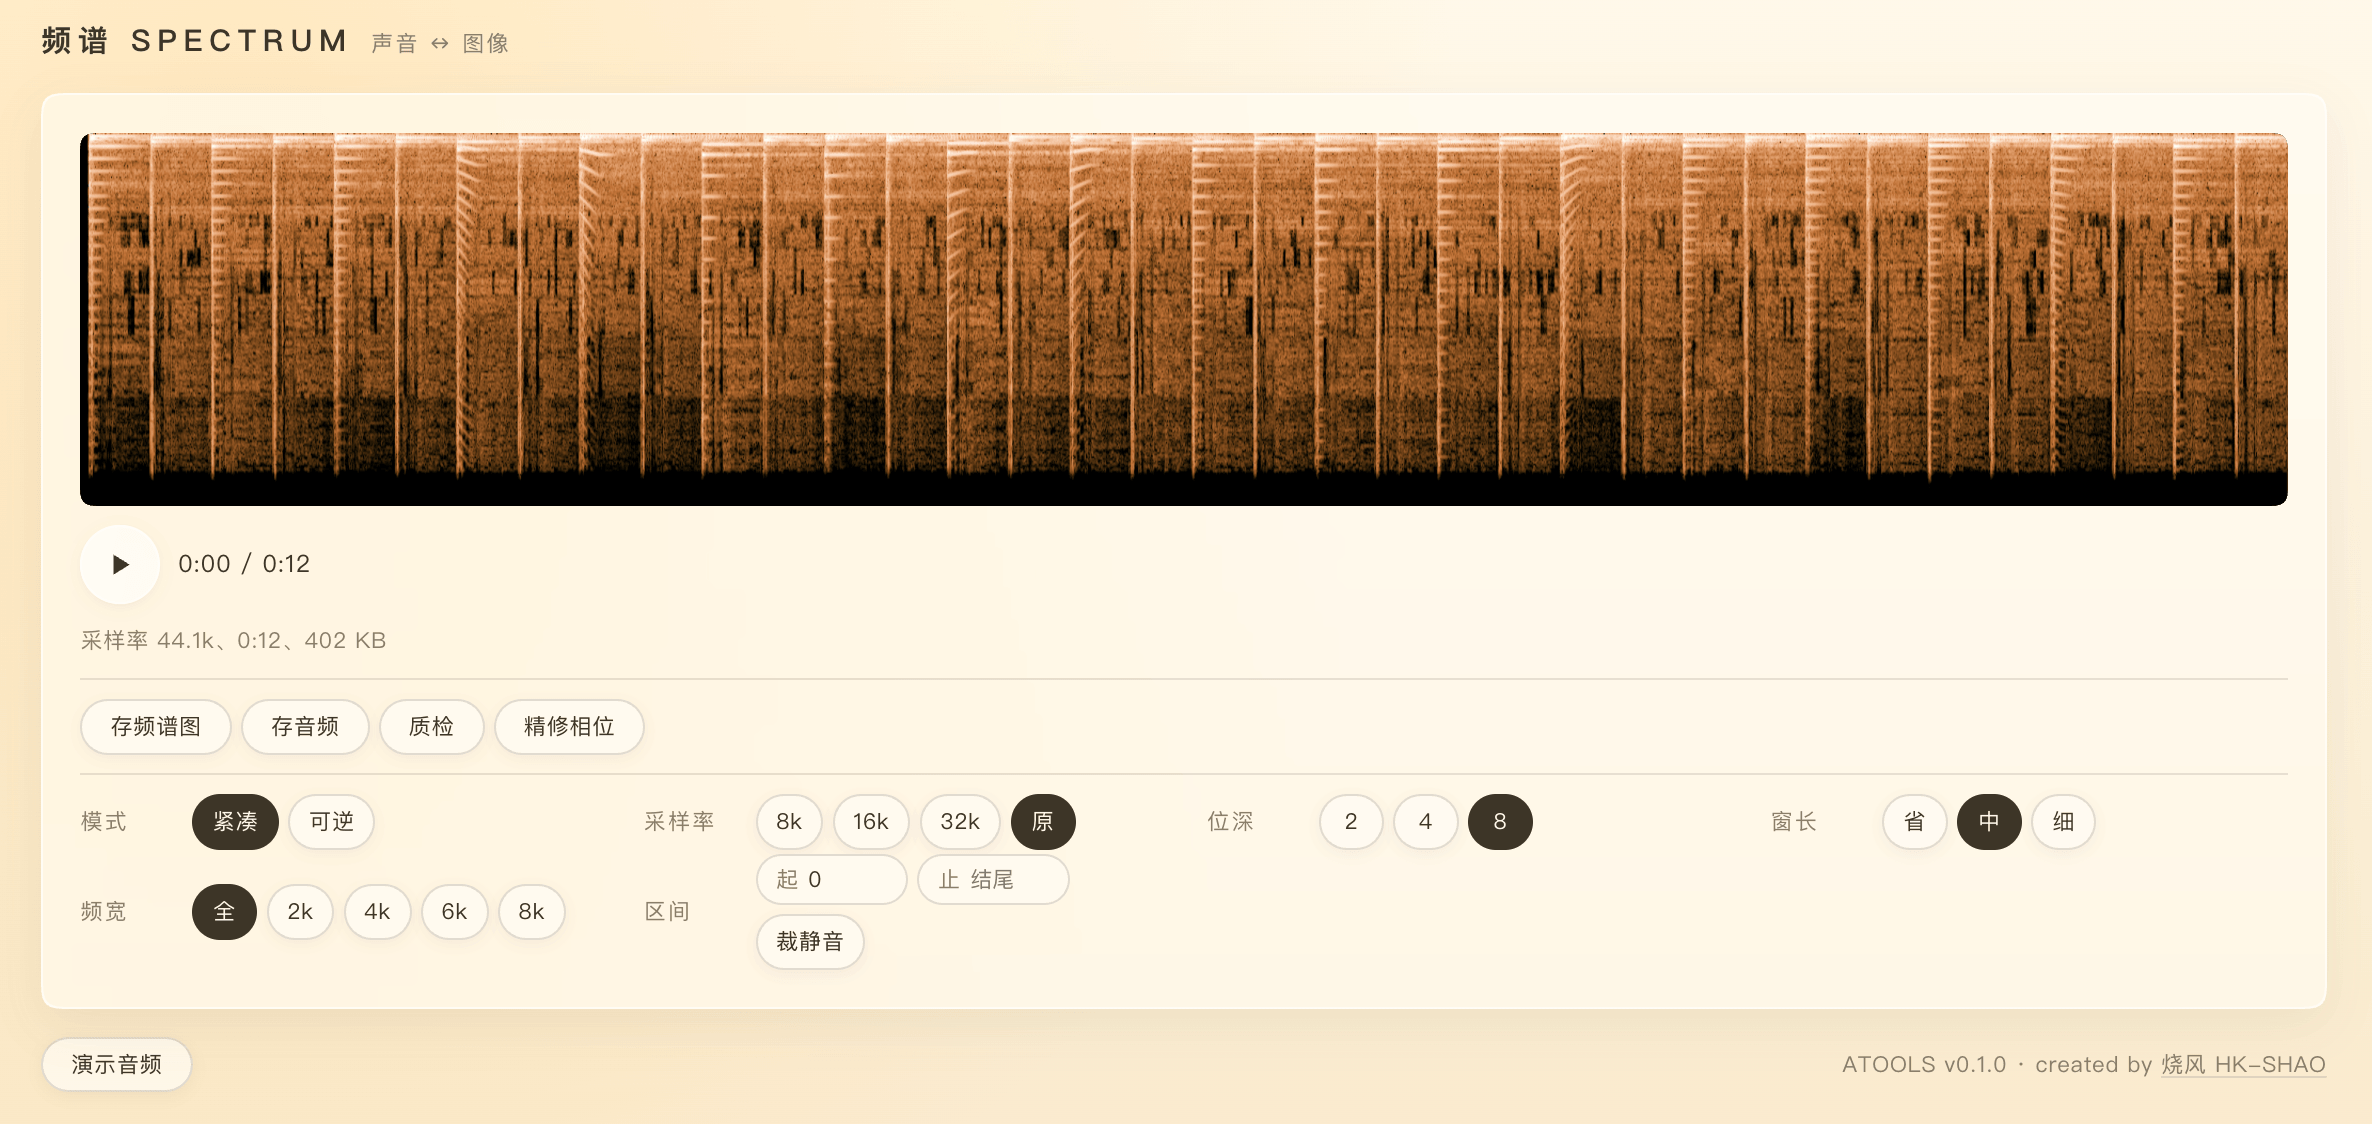
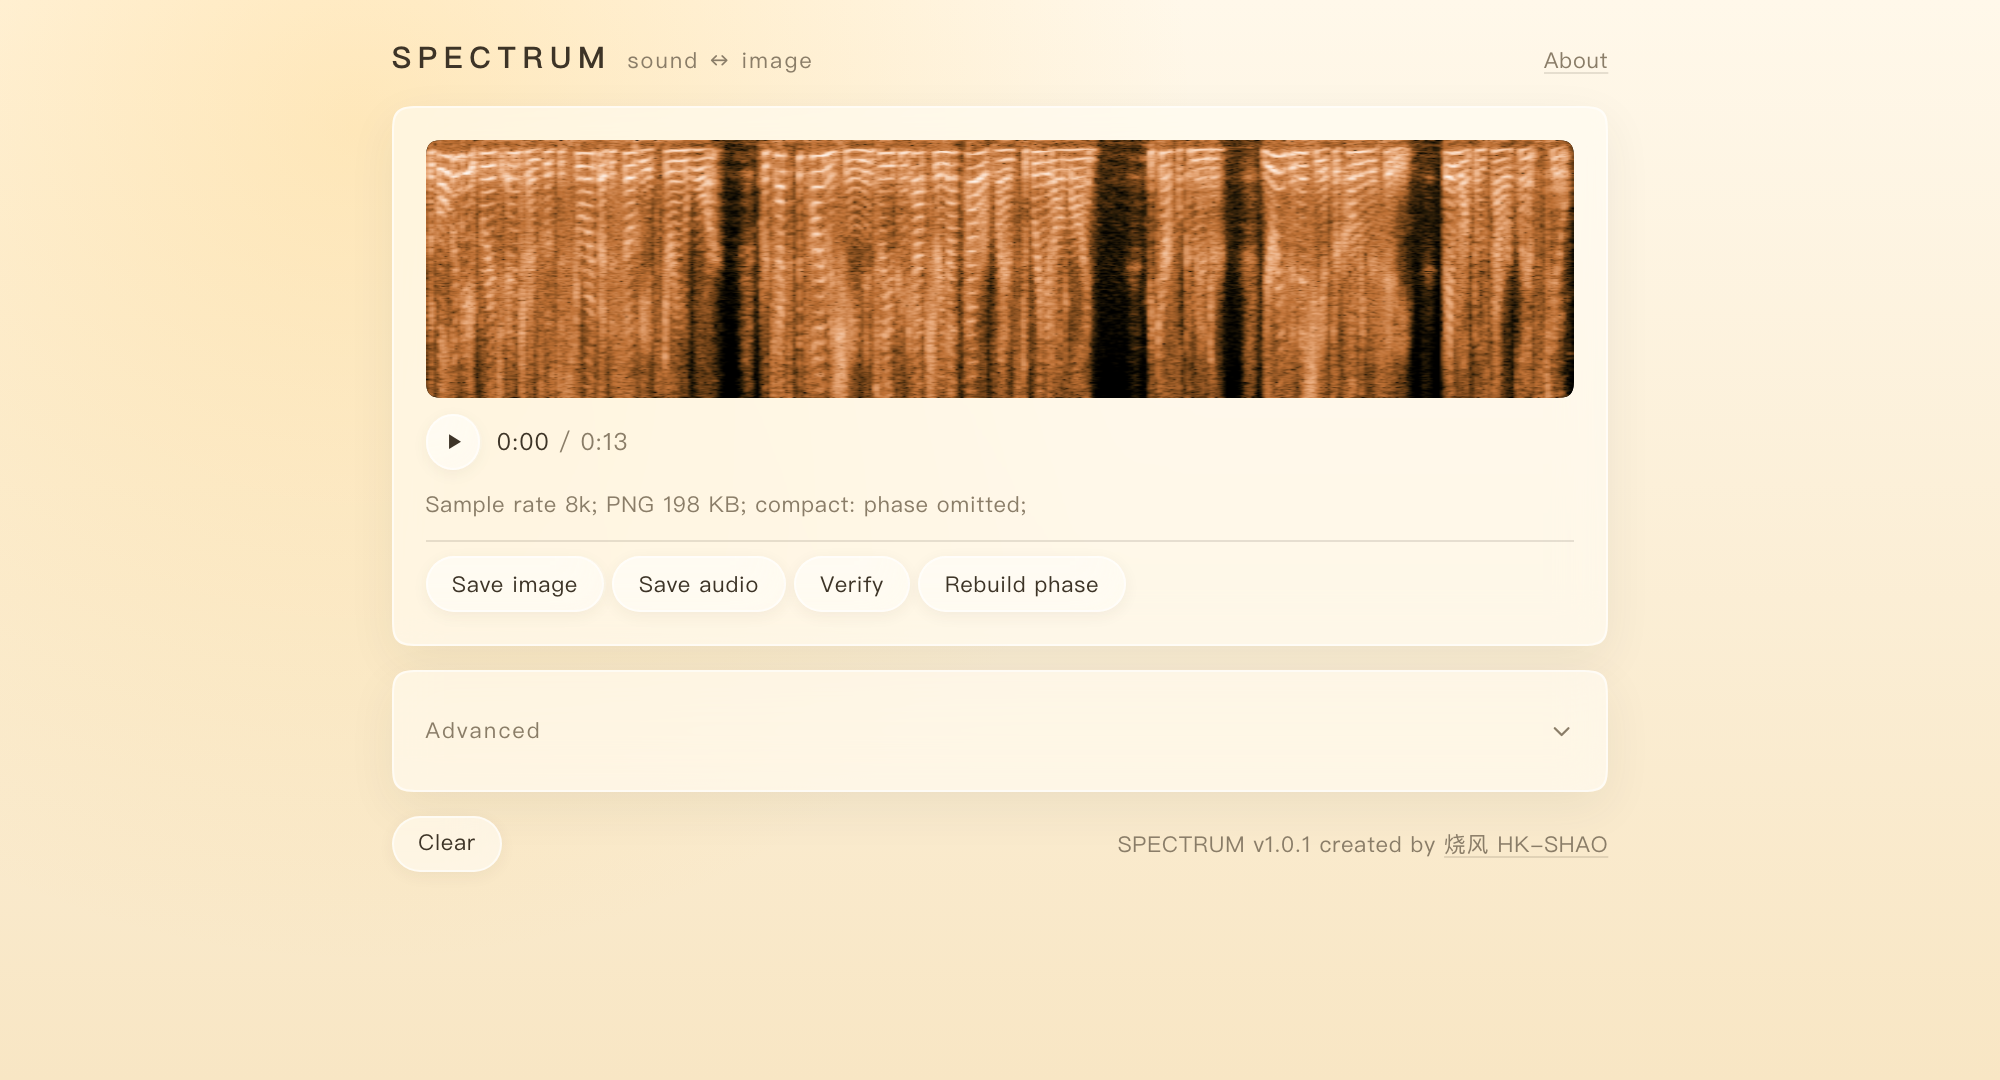
Metadata a public repository needs, and a page for readers without JavaScript
package.json declared no license, description, homepage, or repository while LICENSE sat at the root unmentioned. README now names the license.

With scripting off the page was blank: #root fills the viewport and carries nothing. A noscript line inside #root, centred by one rule, now says what the app needs. React clears the container on mount, so it costs nothing when scripting runs.

The README screenshot still showed the Chinese UI, version 0.1.0, and the old ATOOLS credit. It is a fresh capture of the default state at 2000x1080.

diff --git a/app/index.html b/app/index.html
@@ -22,7 +22,9 @@
     <title>Spectrum: sound ↔ image</title>
   </head>
   <body>
-    <div id="root"></div>
+    <div id="root">
+      <noscript>Spectrum needs JavaScript and WebAssembly.</noscript>
+    </div>
     <script type="module" src="./frontend.tsx"></script>
   </body>
 </html>

diff --git a/app/styles/reset.css b/app/styles/reset.css
@@ -24,3 +24,9 @@ body,
   overflow: hidden;
   overscroll-behavior: none;
 }
+
+#root > noscript {
+  display: grid;
+  place-items: center;
+  height: 100%;
+}

diff --git a/README.md b/README.md
@@ -20,11 +20,11 @@ Drop in an audio file (mp3, wav, flac, m4a, ogg, amr) to get a spectrogram; drop
 | Restored | phase reconstruction, approximate | near-lossless from the original PNG |
 | After edits | still readable, quality depends on the pixels | degrades automatically when phase is damaged |
 
-Compact images omit phase. They usually remain readable after common sharing, compression, and resizing, with quality determined by the pixels that survive.
+Compact images omit phase. They usually survive common sharing, compression, and resizing; the pixels that remain set the quality.
 
 ## Any image can play
 
-Decoding adapts to the available information: intact phase is inverted directly, damaged phase is reconstructed, and an unfamiliar image is treated as a magnitude spectrum for synthesis.
+The decoder adapts to what the image carries: it inverts intact phase directly, rebuilds damaged phase, and synthesises from an unfamiliar image as if it were a magnitude spectrum.
 
 ## MoonBit
 
@@ -49,3 +49,7 @@ bun run build:web    # production build → dist/
 - [docs/metrics.md](docs/metrics.md): measured limits and performance
 - [docs/build.md](docs/build.md): build, deploy, offline
 - [AGENTS.md](AGENTS.md): engineering rules
+
+## License
+
+GPL-3.0. See [LICENSE](LICENSE).
